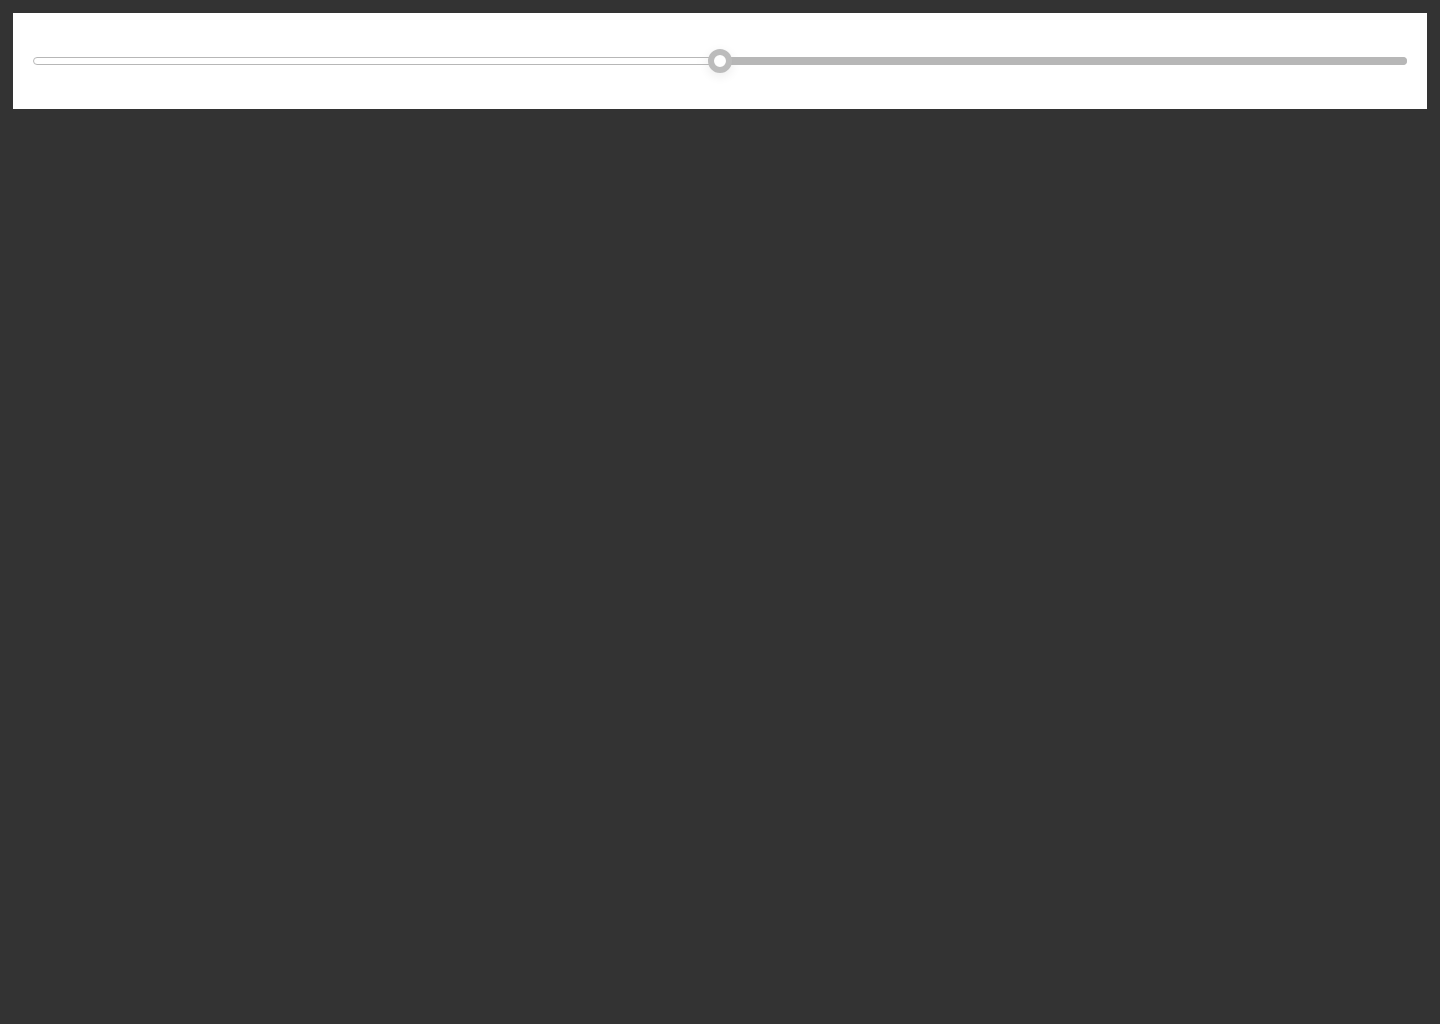
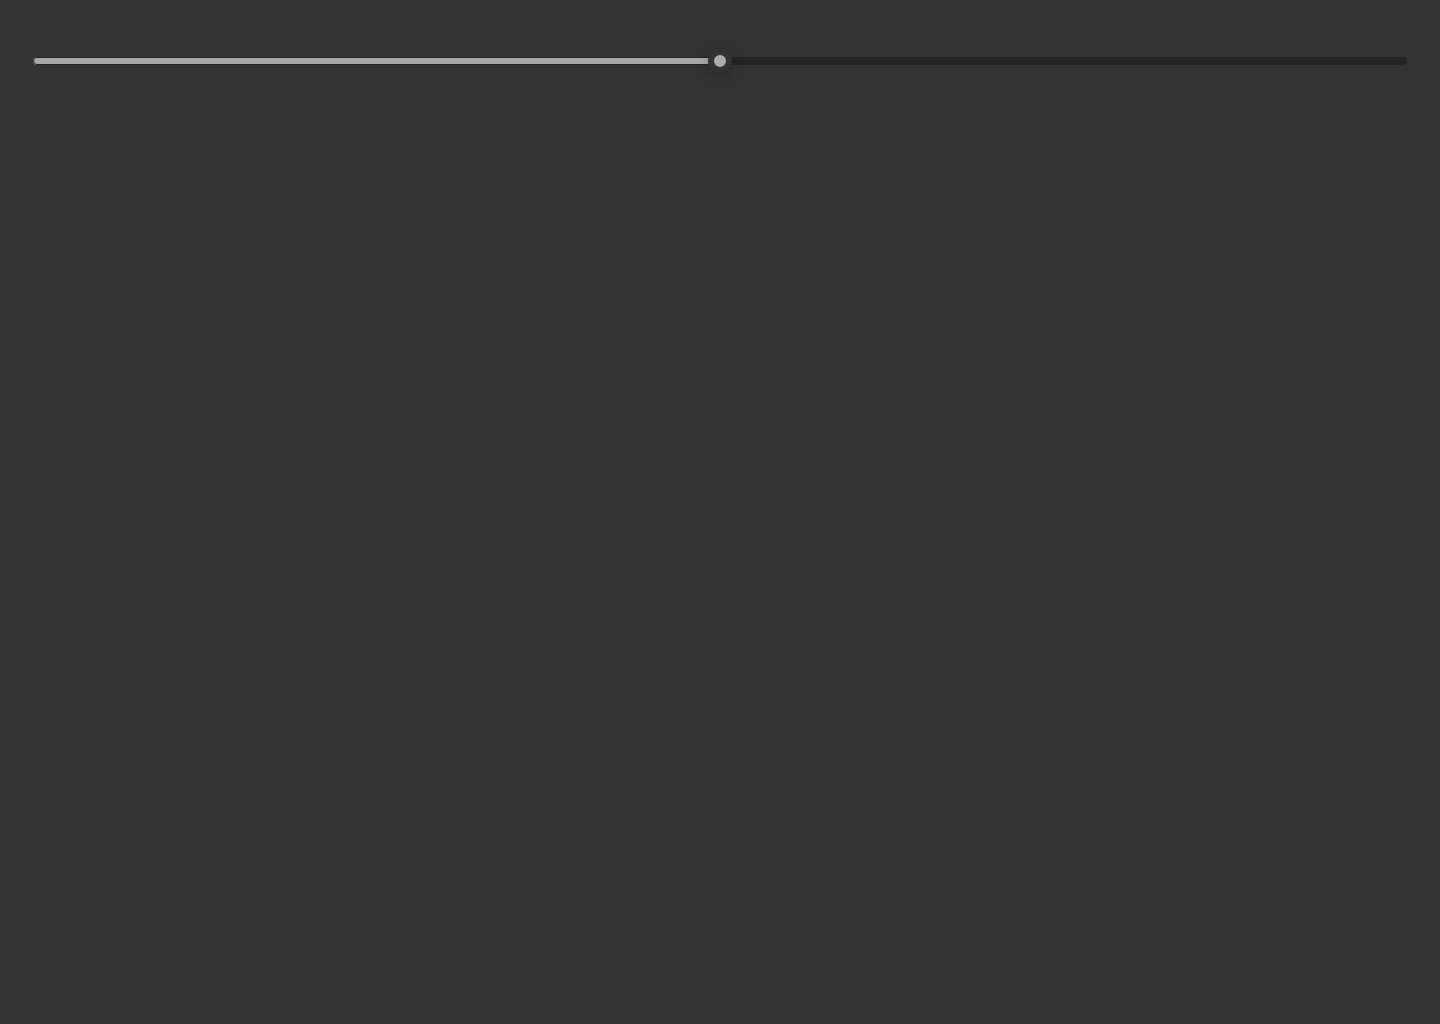
Paint the slider's disabled state instead of dimming it
The disabled state was a blanket `opacity: 0.32` over the whole control. It
faded the track along with everything else, and once the thumb rules started
matching it introduced two greys the design does not ask for.

The design does the opposite: the track keeps its normal colour and only the
fill and the thumb are muted, to the accent at 60%, with the thumb's usual
ring. Both are now derived from the enabled colour with `color-mix`, so they
follow the portal's accent -- a green portal gets a green disabled slider
rather than a blue one -- and the dark theme gets the same treatment against
its own surface instead of a grey that vanished into the track.

They are mixed with a surface rather than with `transparent` on purpose: a
translucent thumb sits exactly on the edge of the fill and showed that edge,
and the track's own edge, as a seam across itself.

`--slider-thumb-disabled-border` and the two greys it paired with are gone;
no rule read them any more.

Changed region(s): [[0.0, 0.0, 1.0, 0.125]]

diff --git a/components/slider/Slider.module.scss b/components/slider/Slider.module.scss
@@ -7,8 +7,6 @@
     --slider-thumb-size: 24px;
     --slider-thumb-border: 6px;
     --slider-border-radius: 5.6px;
-    --slider-thumb-disabled-color: #{colors.$gray-strong};
-    --slider-thumb-disabled-border: #{colors.$light-second-main-disabled};
     --slider-runnable-track-border: #{colors.$gray-light-mid};
     --slider-thumb-background: var(
       --color-scheme-main-accent,
@@ -28,8 +26,6 @@
     --slider-thumb-size: 24px;
     --slider-thumb-border: 6px;
     --slider-border-radius: 5.6px;
-    --slider-thumb-disabled-color: #{colors.$gray-dark-strong};
-    --slider-thumb-disabled-border: #{colors.$light-second-main-disabled};
     --slider-runnable-track-border: #{colors.$gray-dark-mid};
     --slider-thumb-background: #{colors.$white};
     --slider-thumb-border-color: #{colors.$black};
@@ -49,6 +45,22 @@
     in srgb,
     var(--slider-thumb-bg) 30%,
     transparent
+  );
+  // Both stay opaque: a translucent thumb lets the fill edge it sits on, and
+  // the track's own edge, show through as a seam across it.
+  --slider-thumb-disabled-color: color-mix(
+    in srgb,
+    var(--slider-thumb-bg) 60%,
+    var(--slider-thumb-border-color)
+  );
+  --slider-disabled-fill-color: color-mix(
+    in srgb,
+    var(--slider-thumb-bg) 60%,
+    var(--slider-track-color)
+  );
+  --slider-disabled-fill-image: linear-gradient(
+    var(--slider-disabled-fill-color),
+    var(--slider-disabled-fill-color)
   );
   --slider-track-color: var(
     --slider-background-color,
@@ -84,10 +96,6 @@
       0 0 0 3px var(--slider-thumb-focus-ring);
   }
 
-  &.disabled {
-    opacity: 0.32;
-  }
-
   &.withPouring {
     background-image: var(--slider-fill-image);
     background-size: var(--size-prop) 100%;
@@ -96,6 +104,10 @@
 
     [dir="rtl"] & {
       background-position: right center;
+    }
+
+    &.disabled {
+      background-image: var(--slider-disabled-fill-image);
     }
   }
 
@@ -126,7 +138,6 @@
 
   &.disabled::-webkit-slider-thumb {
     background: var(--slider-thumb-disabled-color);
-    border-color: var(--slider-thumb-disabled-border);
     cursor: default;
   }
 
@@ -144,7 +155,6 @@
 
   &.disabled::-moz-range-thumb {
     background: var(--slider-thumb-disabled-color);
-    border-color: var(--slider-thumb-disabled-border);
     cursor: default;
   }
 }
